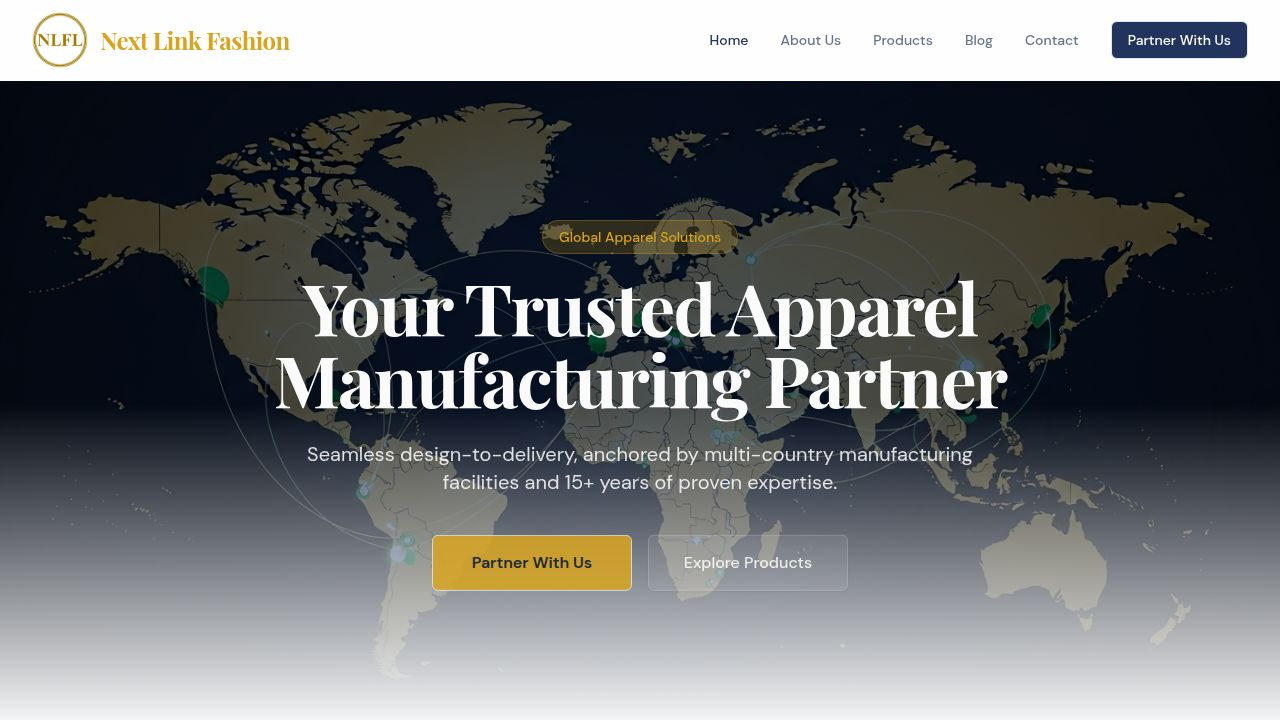
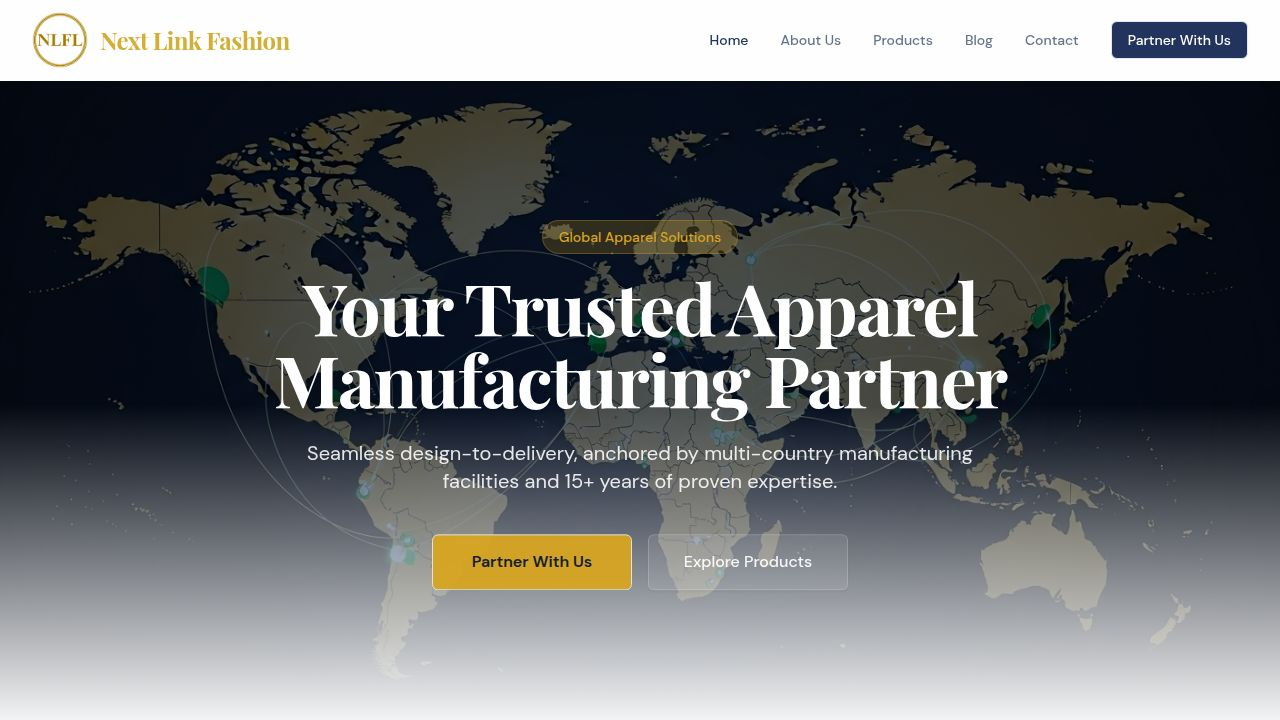
Ensure website automatically scrolls to the top when navigating pages
Add a ScrollToTop component that uses `useEffect` and `useLocation` hook from `wouter` to reset scroll position to top on route changes in `App.tsx`.

Replit-Commit-Author: Agent
Replit-Commit-Session-Id: cd8cb8a4-e30e-49ee-b60f-360d124d623a
Replit-Commit-Checkpoint-Type: full_checkpoint
Replit-Commit-Event-Id: b9b4310f-1b8b-4776-8519-788cdea8e5a1
Replit-Commit-Screenshot-Url: https://storage.googleapis.com/screenshot-production-us-central1/94e5c86e-2dee-4964-a74d-40efd2d3adeb/cd8cb8a4-e30e-49ee-b60f-360d124d623a/bd8qkPC
Replit-Helium-Checkpoint-Created: true

diff --git a/client/src/App.tsx b/client/src/App.tsx
@@ -1,4 +1,5 @@
-import { Switch, Route } from "wouter";
+import { Switch, Route, useLocation } from "wouter";
+import { useEffect } from "react";
 import { queryClient } from "./lib/queryClient";
 import { QueryClientProvider } from "@tanstack/react-query";
 import { Toaster } from "@/components/ui/toaster";
@@ -13,9 +14,18 @@ import Products from "@/pages/products";
 import Contact from "@/pages/contact";
 import Blog from "@/pages/blog";
 
+function ScrollToTop() {
+  const [location] = useLocation();
+  useEffect(() => {
+    window.scrollTo(0, 0);
+  }, [location]);
+  return null;
+}
+
 function Router() {
   return (
     <div className="flex min-h-screen flex-col bg-background">
+      <ScrollToTop />
       <Navbar />
       <main className="flex-1">
         <Switch>
